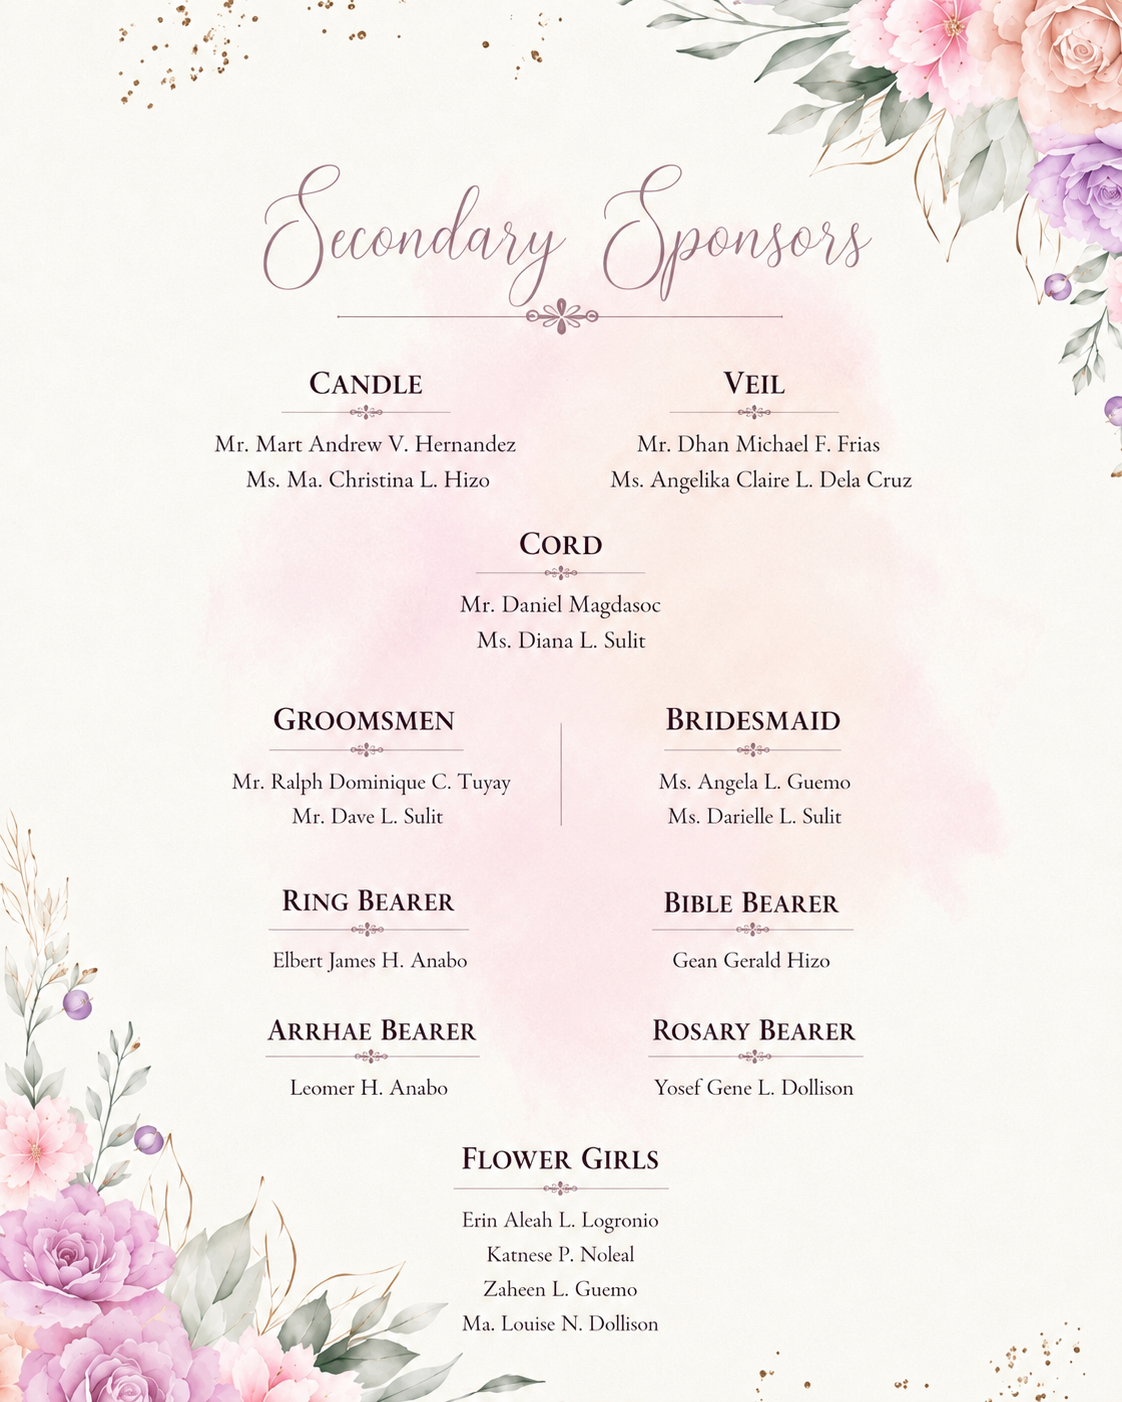
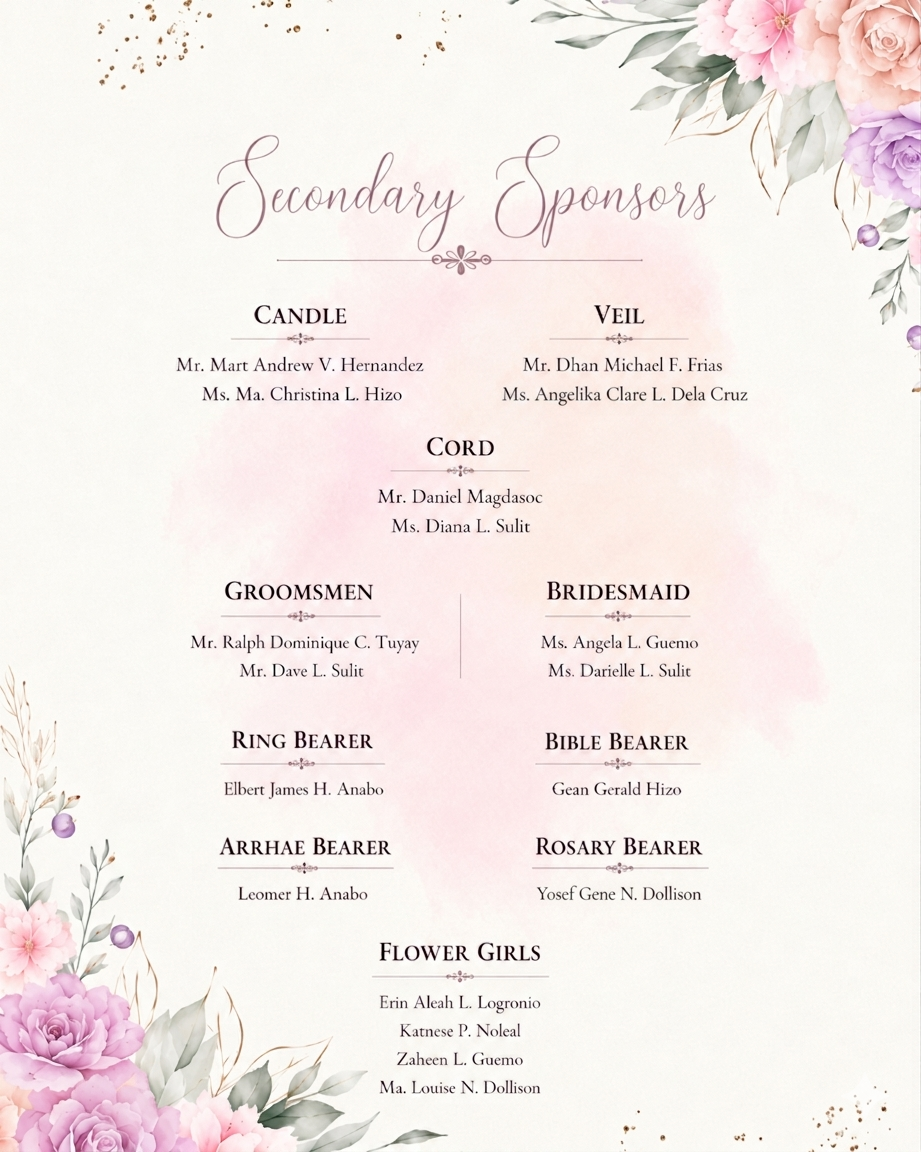
Last revision with RSVP

diff --git a/src/config/weddingConfig.js b/src/config/weddingConfig.js
@@ -66,7 +66,7 @@ export const weddingConfig = {
     website: "",
     message: "Please RSVP by May 23rd, 2026",
     /** Google Forms: Send → embed HTML → paste the form URL with ?embedded=true (remove any "how many guests" field in the form editor) */
-    formEmbedUrl: ""
+    formEmbedUrl: "https://docs.google.com/forms/d/e/1FAIpQLSc6QDodzMiMIbKgFu7vIajQuvnOtS2ZcsBNwnuYBB2GRPHgqg/viewform?embedded=true"
   },
 
   // Theme and Styling
